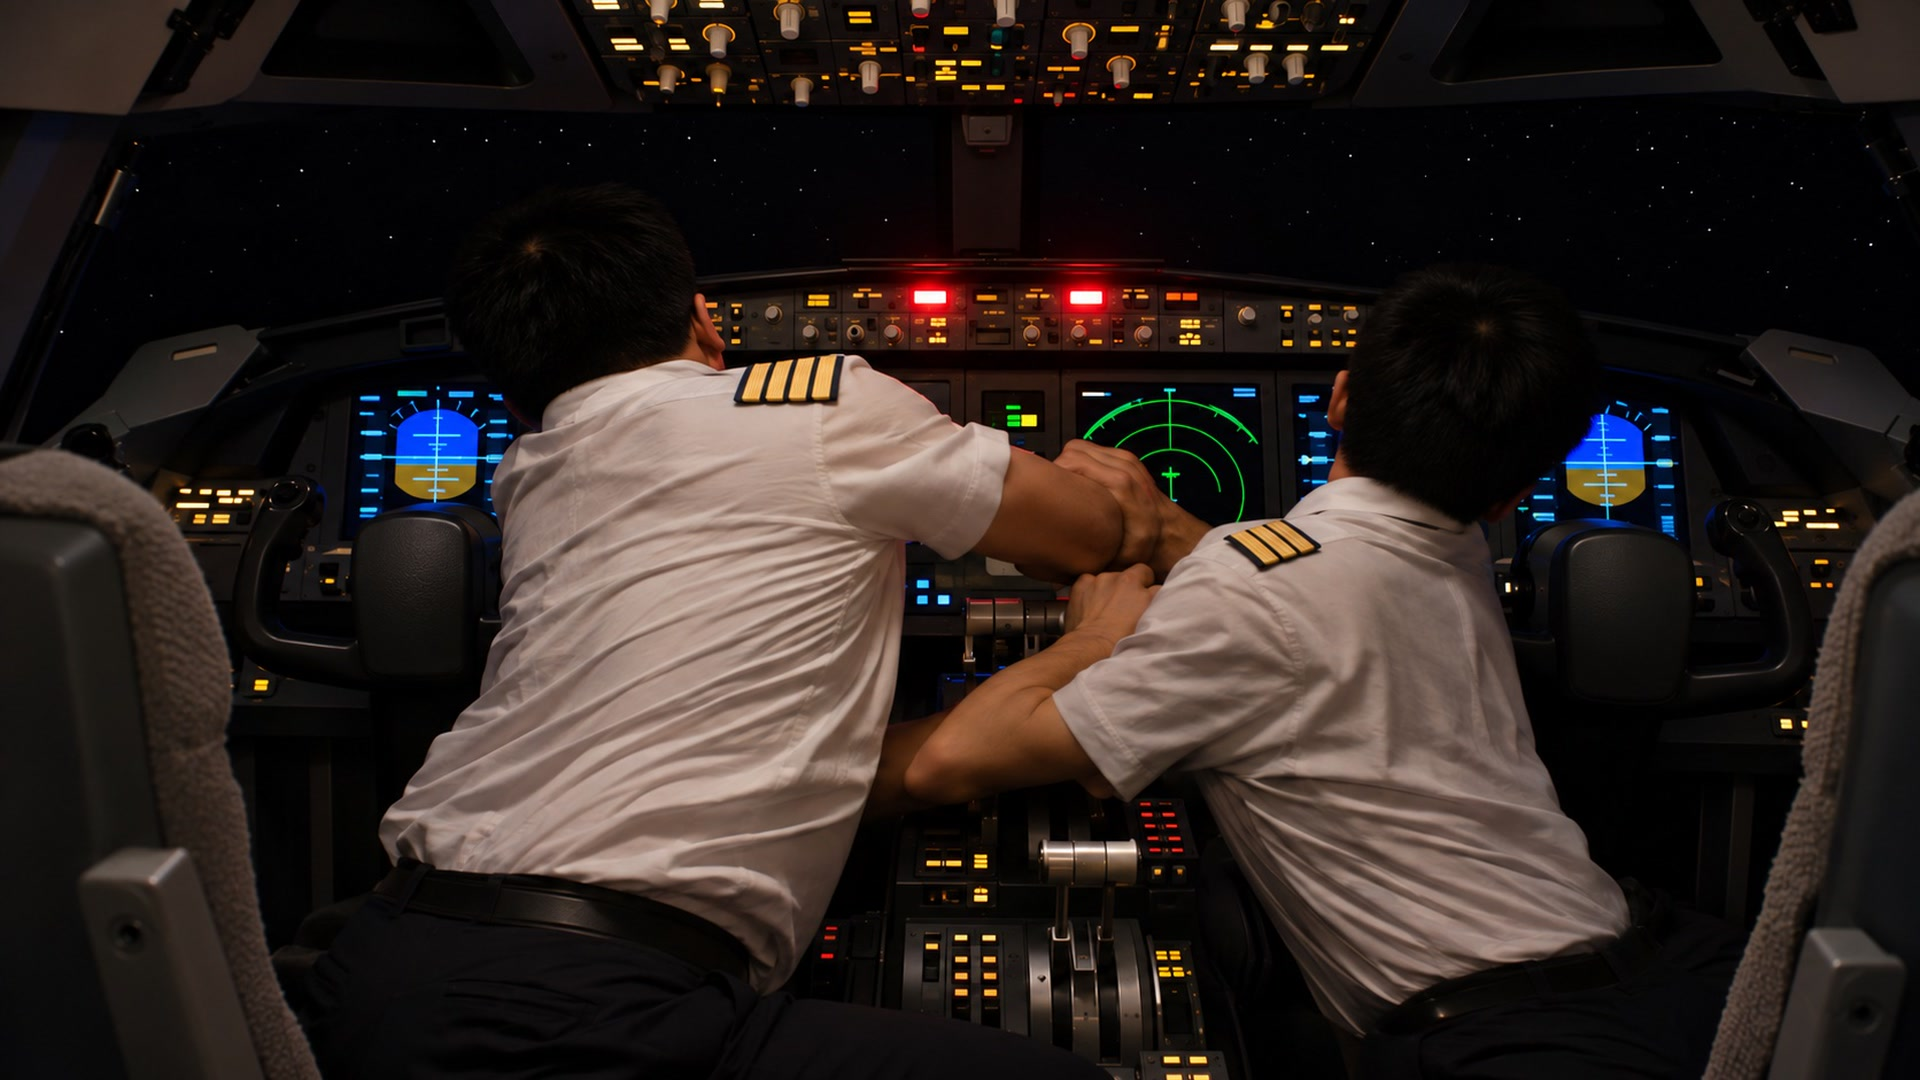
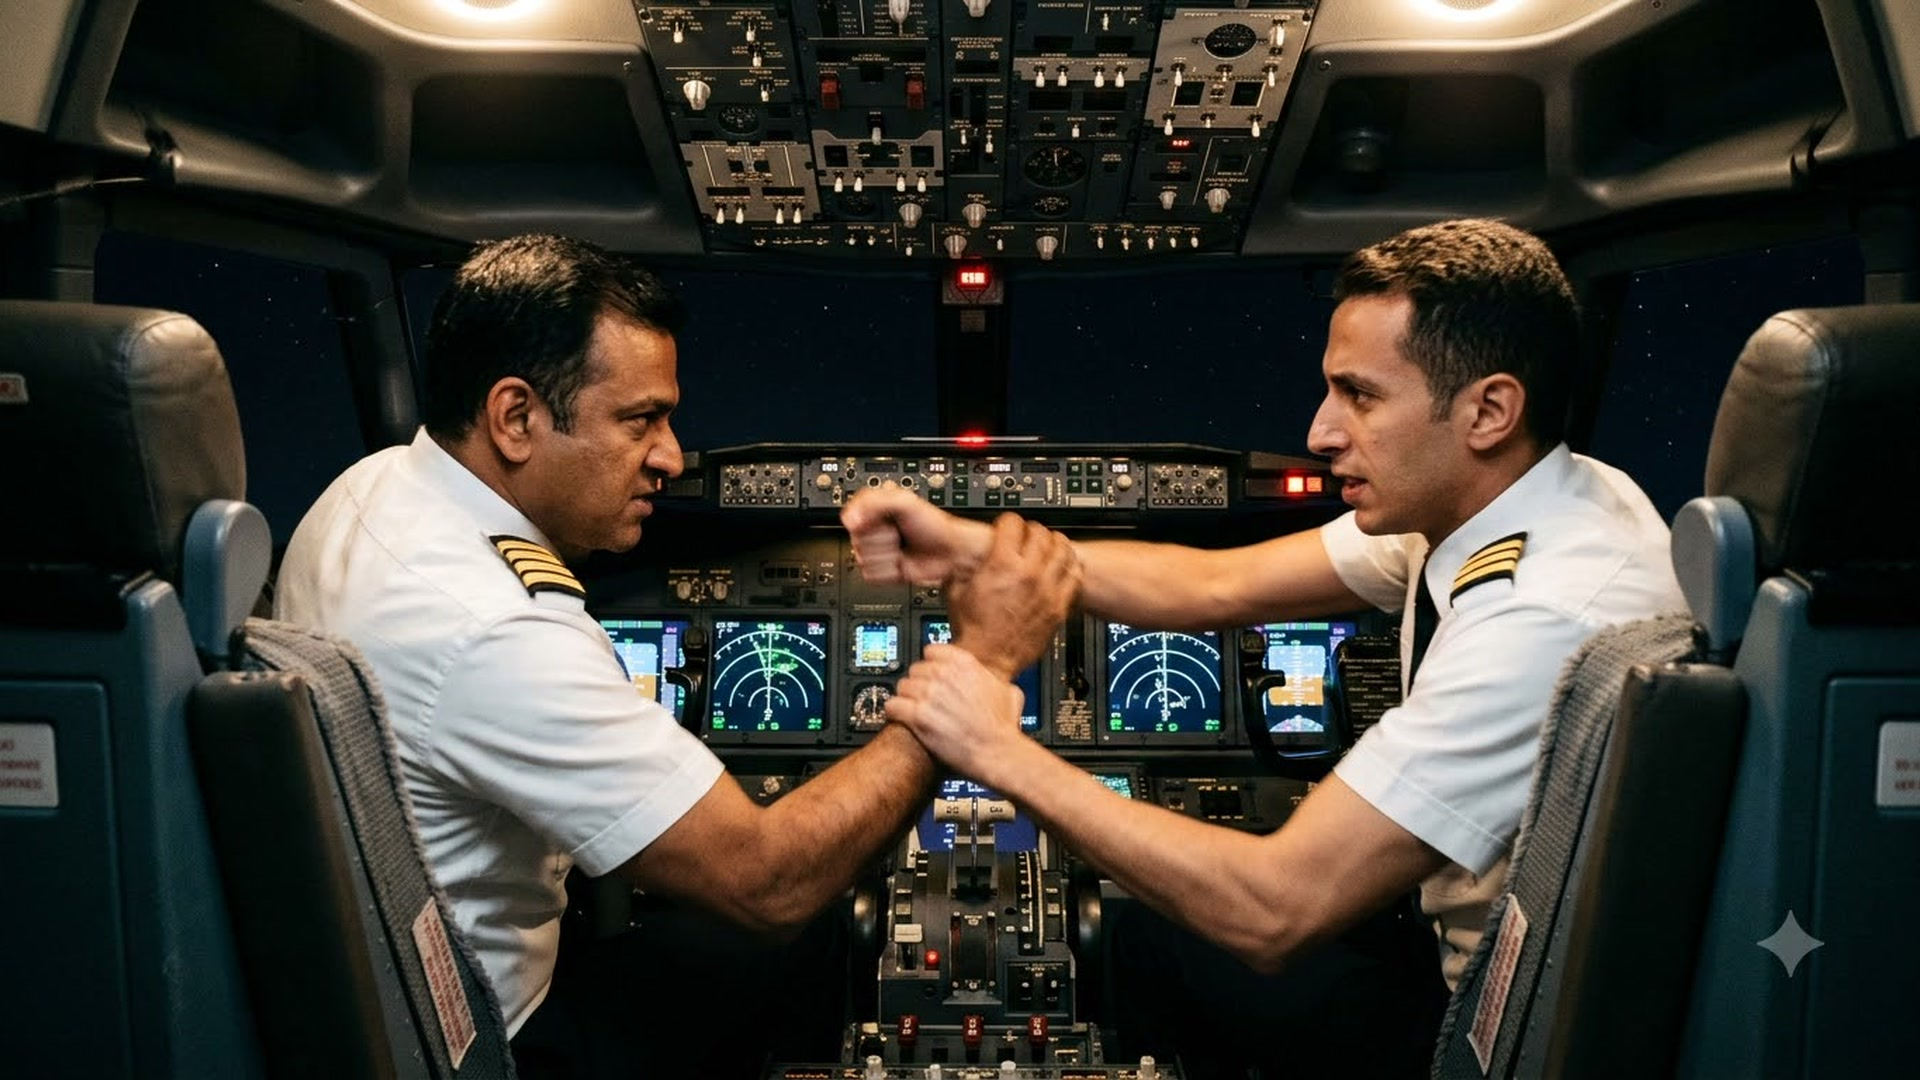
Brighter, accurate 737 MAX cockpits with invented faces
- Regenerated the four cockpit shots in Google Flow: bright, night sky,
  four-display 737 MAX panel with yokes, white short-sleeve uniforms, and
  invented faces; labelled AI RECONSTRUCTION · NOT THE REAL PERSON.
- Rahul's decision: invented AI faces are allowed (CLAUDE.md, skill).
- Lifted the overall grade, vignette and gradients; captions sit above
  source lines; the pilots card no longer covers the source.
- Real photos added from Commons (second 737 MAX cockpit replaces the
  older 737NG, Flydubai at Dubai, Tabuk) and real-footage support
  (commons.py getvid, assets/vid).

diff --git a/samples/fz1073/comp.html b/samples/fz1073/comp.html
@@ -40,7 +40,7 @@ canvas#gl{position:absolute;inset:0}
 .node .txt{font:400 26px/1.35 Inter;color:#d6dae0;text-align:center;margin-top:60px}
 .node .tag{display:inline-block;font:600 16px/1 Inter;letter-spacing:.2em;background:var(--red);color:#fff;padding:7px 10px;margin-top:14px}
 #grain,#vignette,#flash,#leak{position:absolute;inset:0}
-#vignette{background:radial-gradient(ellipse at center,rgba(0,0,0,0) 55%,rgba(0,0,0,.65) 100%)}
+#vignette{background:radial-gradient(ellipse at center,rgba(0,0,0,0) 62%,rgba(0,0,0,.4) 100%)}
 #flash{background:#000;opacity:0}
 #leak{mix-blend-mode:screen;opacity:0}
 .maplabel{position:absolute;font:600 22px/1 Inter;letter-spacing:.22em;color:#fff;transform:translate(-50%,-50%);white-space:nowrap;text-shadow:0 2px 10px #000}
@@ -85,11 +85,12 @@ body.modeL .gtitle{text-align:left;font-size:80px}
 
 #photo{position:absolute;inset:0;background:#000;overflow:hidden;display:none}
 #photo img{position:absolute;inset:0;width:100%;height:100%;object-fit:cover;opacity:0;will-change:transform}
-#photo .grad{position:absolute;inset:0;background:linear-gradient(to top,rgba(0,0,0,.78) 0%,rgba(0,0,0,0) 45%),linear-gradient(to bottom,rgba(0,0,0,.45) 0%,rgba(0,0,0,0) 22%)}
+#photo .grad{position:absolute;inset:0;background:linear-gradient(to top,rgba(0,0,0,.6) 0%,rgba(0,0,0,0) 32%),linear-gradient(to bottom,rgba(0,0,0,.35) 0%,rgba(0,0,0,0) 18%)}
 #alarm{position:absolute;inset:0;background:radial-gradient(ellipse at center,rgba(255,20,20,.05),rgba(200,0,0,.55));mix-blend-mode:multiply;opacity:0}
 #credit{position:absolute;left:72px;bottom:40px;font:500 15px/1.35 Inter;letter-spacing:.06em;color:#b9c0c8;max-width:900px;text-shadow:0 1px 6px #000}
 #credit .ptag{display:inline-block;font:600 16px/1 Inter;letter-spacing:.2em;color:#fff;background:rgba(0,0,0,.55);border-left:4px solid var(--red);padding:8px 10px;margin-bottom:8px}
 body.hasCredit #source{bottom:96px}
+body.hasCredit #phrase{bottom:178px}
 body.modeL #credit{max-width:1040px}
 .split .col img{width:100%;height:190px;object-fit:cover;display:block;margin-bottom:22px;filter:saturate(.9)}
 .gcard .doc{width:230px;margin:0;transform:rotate(2.5deg);box-shadow:0 18px 40px rgba(0,0,0,.6);border:1px solid #444}
@@ -460,10 +461,10 @@ function photoLayer(sc,lt,d,mode){const P=sc.photos||[];const box=$('photo');
   const prevNull=i>0&&!P[i-1].src;box.style.background=prevNull?'transparent':'#000';
   B.style.opacity=!prevNull&&fa<1&&B.dataset.k&&i>0?1:0;if(B.dataset.k)kb(B,B.dataset.kb,(lt-parseFloat(B.dataset.s))/Math.max(parseFloat(B.dataset.e)-parseFloat(B.dataset.s),.1));
   const style=mode==='C'?'blur':(sc.photo_style||'full');
-  const FIL={full:'brightness(.86) contrast(1.05) saturate(.92)',dim:'brightness(.42) saturate(.8)',blur:'blur(14px) brightness(.5) saturate(.85)',
-    threat:'grayscale(1) sepia(1) hue-rotate(-40deg) saturate(3.2) brightness(.55) contrast(1.15)',bw:'grayscale(1) contrast(1.2) brightness(.78)'};
+  const FIL={full:'brightness(1.08) contrast(1.06) saturate(1.02)',dim:'brightness(.6) saturate(.85)',blur:'blur(14px) brightness(.72) saturate(.9)',
+    threat:'grayscale(1) sepia(1) hue-rotate(-40deg) saturate(3) brightness(.75) contrast(1.12)',bw:'grayscale(1) contrast(1.18) brightness(1)'};
   const f=FIL[style];
-  let ff=f;if(sc.dim_at!=null&&style==='full'){const k=ease((lt-sc.dim_at*d)/.7);ff=`brightness(${lerp(.86,.36,k)}) contrast(1.05) saturate(${lerp(.92,.7,k)})`;}
+  let ff=f;if(sc.dim_at!=null&&style==='full'){const k=ease((lt-sc.dim_at*d)/.7);ff=`brightness(${lerp(1.08,.45,k)}) contrast(1.06) saturate(${lerp(1.02,.75,k)})`;}
   A.dataset.st=cur.style||'';A.dataset.flip=cur.flip?'1':'';
   const per=el=>style==='blur'?FIL.blur+(el.dataset.st==='threat'?' sepia(1) hue-rotate(-40deg) saturate(2.5)':el.dataset.st==='bw'?' grayscale(1)':''):(el.dataset.st&&FIL[el.dataset.st])||ff;
   A.style.filter=per(A);B.style.filter=per(B);$('pgrad').style.opacity=style==='full'?1:.4;
@@ -471,7 +472,8 @@ function photoLayer(sc,lt,d,mode){const P=sc.photos||[];const box=$('photo');
   const tg=cur.tag&&style!=='blur'?cur.tag:null;$('tags').innerHTML=tg?`<div class="ntag" style="left:${tg.x*W}px;top:${tg.y*H}px;opacity:${win(lt,start+.5,end-.1,.35,.25)}"><b>${tg.text}</b><i></i></div>`:'';
   const al=sc.alarm!=null&&u>=sc.alarm?((Math.floor(lt*3)%2)?.55:1):0;$('alarm').style.opacity=al;
   const c=CREDITS[cur.src];
-  if(((c&&c.ai)||cur.src.startsWith('ai/'))&&style!=='blur'){$('credit').innerHTML=`<div class="ptag">${cur.label||'AI RECONSTRUCTION'}</div><br>AI-GENERATED ILLUSTRATION · NOT ACTUAL FOOTAGE OF THE INCIDENT`;document.body.classList.add('hasCredit');}
+  if(c&&c.video&&style!=='blur'){$('credit').innerHTML=`<div class="ptag">${cur.label||'REAL FOOTAGE · REPRESENTATIVE'}</div><br>VIDEO: ${c.artist.replace(/\s+/g,' ').slice(0,50)} · WIKIMEDIA COMMONS · ${c.license}`;document.body.classList.add('hasCredit');}
+  else if(((c&&c.ai)||cur.src.startsWith('ai/'))&&style!=='blur'){$('credit').innerHTML=`<div class="ptag">${cur.label||'AI RECONSTRUCTION'}</div><br>AI-GENERATED ILLUSTRATION · NOT ACTUAL FOOTAGE OF THE INCIDENT`;document.body.classList.add('hasCredit');}
   else if(c&&style!=='blur'){const by=c.artist.replace(/\s+/g,' ').slice(0,60);$('credit').innerHTML=`${cur.label?`<div class="ptag">${cur.label}</div><br>`:''}PHOTO: ${by} · WIKIMEDIA COMMONS · ${c.license}`;document.body.classList.add('hasCredit');}
   else{const lb=cur.label&&style!=='blur';$('credit').innerHTML=lb?`<div class="ptag">${cur.label}</div>`:'';document.body.classList.toggle('hasCredit',!!lb);}
   return true;}
@@ -630,7 +632,7 @@ const LOOKS={
   plane_cruise:lookPlaneCruise, plane_dive:lookPlaneDive,
   map:(lt,d,f)=>lookMap(lt,d,f,'route'),
   map_tabuk:(lt,d,f)=>{lookMap(lt,d,f,'tabuk');$('ov_heroes').classList.remove('hide');$('h1').style.opacity=0;$('h2').style.opacity=0;
-     const h=$('h3');h.style.left='66%';h.style.top='76%';h.style.width='900px';h.dataset.base='translate(-50%,-50%) scale(.82)';
+     const h=$('h3');h.style.left='66%';h.style.top='64%';h.style.width='900px';h.dataset.base='translate(-50%,-50%) scale(.82)';
      h.style.opacity=win(lt,d*.08,d*.62);h.style.transform=`translate(-50%,-50%) scale(.82) translateY(${(1-ease((lt-d*.08)/.4))*30}px)`;},
   heroes:lookHeroes, probe:lookProbe, question:lookQuestion, end:lookEnd,
 };
@@ -672,7 +674,7 @@ window.renderFrame=function(f){
   let i=TL.scenes.findIndex(s=>t>=s.start&&t<s.start+s.dur);if(i<0)i=TL.scenes.length-1;
   const sc=TL.scenes[i],lt=t-sc.start,d=sc.dur;
   const mode=sc.layout||'F';document.body.classList.toggle('modeL',mode==='L');document.body.classList.toggle('modeC',mode==='C');
-  $('gl').style.filter=mode==='C'?'blur(16px) brightness(.55)':'none';
+  $('gl').style.filter=mode==='C'?'blur(16px) brightness(.72)':'none';
   LOOKS[sc.look](lt,d,f,sc);
   if(photoLayer(sc,lt,d,mode)&&sc.look.startsWith('map'))$('ov_map').classList.add('hide');
   // chapter tag

diff --git a/samples/fz1073/commons.py b/samples/fz1073/commons.py
@@ -1,6 +1,7 @@
 """Search Wikimedia Commons and download licensed photos with attribution.
 usage: python commons.py search "<query>" [limit]
-       python commons.py get "<File:Title.jpg>" <key>     -> assets/photos/<key>.jpg + credits.json"""
+       python commons.py get "<File:Title.jpg>" <key>     -> assets/photos/<key>.jpg + credits.json
+       python commons.py getvid "<File:Title.webm>" <key> <start s> <seconds>  -> assets/vid/<key>.mp4 (1080p) + credits.json"""
 import json, os, re, sys, urllib.parse, urllib.request, urllib.error, html
 API = "https://commons.wikimedia.org/w/api.php"
 UA = {"User-Agent": "RahulAIVideoStudio/0.1 (local documentary editor; contact via project repo)"}
@@ -21,8 +22,8 @@ def api(**p):
 
 def clean(s): return html.unescape(re.sub(r"<[^>]+>", "", s or "")).strip()
 
-def info(titles):
-    d = api(action="query", titles="|".join(titles), prop="imageinfo", iiprop="url|size|extmetadata|mime", iiurlwidth=1920)
+def info(titles, thumb=True):
+    d = api(action="query", titles="|".join(titles), prop="imageinfo", iiprop="url|size|extmetadata|mime", **({"iiurlwidth": 1920} if thumb else {}))
     out = []
     for pg in d["query"]["pages"]:
         if "imageinfo" not in pg: continue
@@ -58,5 +59,23 @@ elif sys.argv[1] == "get":
     cp = os.path.join(HERE, "assets", "photos", "credits.json")
     cr = json.load(open(cp)) if os.path.exists(cp) else {}
     cr[key] = {k: r[k] for k in ("title", "page", "license", "artist", "date")}
+    json.dump(cr, open(cp, "w"), indent=1, ensure_ascii=False)
+    print("saved", dst, r["license"], "·", r["artist"])
+elif sys.argv[1] == "getvid":
+    import subprocess
+    r = info([sys.argv[2]], thumb=False)[0]; key, ss, dur = sys.argv[3], sys.argv[4], sys.argv[5]
+    if not OK.match(r["license"]): sys.exit(f"license not allowed: {r['license']}")
+    os.makedirs(os.path.join(HERE, "assets", "vid"), exist_ok=True)
+    dst = os.path.join(HERE, "assets", "vid", key + ".mp4")
+    tmp = dst + ".src.webm"; import time
+    subprocess.run(["curl", "-sS", "-f", "-L", "-A", UA["User-Agent"], "--retry", "5", "--retry-delay", "30", "--retry-all-errors", "-o", tmp, r["orig"].split("?")[0]], check=True)
+    time.sleep(10)
+    subprocess.run(["ffmpeg", "-nostdin", "-y", "-loglevel", "error", "-ss", ss, "-t", dur, "-i", tmp, "-an",
+                    "-vf", "scale=1920:1080:force_original_aspect_ratio=increase,crop=1920:1080,fps=30", "-c:v", "libx264", "-crf", "18", "-pix_fmt", "yuv420p", dst], check=True)
+    os.remove(tmp)
+    if os.path.getsize(dst) < 100000: sys.exit(f"clip came out empty: {dst}")
+    cp = os.path.join(HERE, "assets", "photos", "credits.json")
+    cr = json.load(open(cp)) if os.path.exists(cp) else {}
+    cr["vid/" + key] = {**{k: r[k] for k in ("title", "page", "license", "artist", "date")}, "video": True}
     json.dump(cr, open(cp, "w"), indent=1, ensure_ascii=False)
     print("saved", dst, r["license"], "·", r["artist"])

diff --git a/samples/fz1073/ai_assets.py b/samples/fz1073/ai_assets.py
@@ -3,8 +3,8 @@ import os, subprocess, glob
 HERE = os.path.dirname(os.path.abspath(__file__))
 FPS = 30
 
-def _frames(key):
-    mp4 = os.path.join(HERE, "assets", "ai", key + ".mp4"); d = os.path.join(HERE, "assets", "ai", key)
+def _frames(key, folder="ai"):
+    mp4 = os.path.join(HERE, "assets", folder, key + ".mp4"); d = os.path.join(HERE, "assets", folder, key)
     if not os.path.exists(mp4): return 0
     if not os.path.isdir(d) or os.path.getmtime(d) < os.path.getmtime(mp4):
         os.makedirs(d, exist_ok=True)
@@ -35,6 +35,10 @@ def resolve(photos):
     out = []
     for p in photos or []:
         src = p.get("src")
+        if src and src.startswith("vid/"):  # real licensed footage (commons.py getvid)
+            n = _frames(src[4:], "vid")
+            if n: out.append({**p, "video": n})
+            continue
         if src and src.startswith("ai/"):
             key = src[3:]; n = _frames(key)
             if n: out.append({**p, "video": n}); continue

diff --git a/skills/think-with-rahul-nishad-production/SKILL.md b/skills/think-with-rahul-nishad-production/SKILL.md
@@ -123,7 +123,7 @@ Use this when he wants a finished video, not just a package. Repo: `RahulNishad/
 **Visual sources, in order of preference.**
 1. Real licensed photos from Wikimedia Commons (CC BY, CC BY-SA, PD) — the actual aircraft, places, equipment, documents. Credit on screen and in `CREDITS.md`; tag "THE AIRCRAFT INVOLVED", "REPRESENTATIVE IMAGE" or "FILE PHOTO".
 2. Claude-rendered code visuals (Three.js + HTML): route maps, altitude/stat counters, timelines, split "X vs Y", hero cards, quote cards, question and end cards.
-3. AI reconstructions for moments nobody filmed (ChatGPT images; Flow/Sora if available). Write one setup message defining consistent characters (from behind), then one prompt per image with an exact filename. Two or three stills per moment, cut with Ken Burns and crossfades. Rules: no faces of real people, no blood, no weapons, no logos or livery, no readable text; never use a CC BY-SA photo as a reference. Label every one "AI RECONSTRUCTION" or "AI ILLUSTRATION" and tell him to tick YouTube's altered/synthetic content box.
+3. AI reconstructions for moments nobody filmed (ChatGPT images; Flow/Sora if available). Write one setup message defining consistent characters (from behind), then one prompt per image with an exact filename. Two or three stills per moment, cut with Ken Burns and crossfades. Rules: invented faces only (never lookalikes of the real people, labelled NOT THE REAL PERSON), no blood, no weapons, no logos or livery, no readable text; never use a CC BY-SA photo as a reference. Label every one "AI RECONSTRUCTION" or "AI ILLUSTRATION" and tell him to tick YouTube's altered/synthetic content box.
 Review every AI image before use (faces, hands, logos, text) and fall back to a real photo or code visual when one is missing.
 
 **Sound.** Original drone bed about −30 LUFS ducked about 60% under voice, quieter hook, low pulse from title to climax, whooshes on scene changes, booms on 3–4 reveals, riser into the final question with about 1 s of music silence before it. Voice compressed and normalised; final mix −14 LUFS, true peak under −1.5 dBFS.
@@ -147,12 +147,13 @@ He pointed to a 27-minute Hindi investigation of FZ1073 by another creator as th
 - **Mock screens built in code.** Crew roster, background-check portal, social-post pop-up, transponder panel showing 7700 then 7500, radar or ADS-B readout. Use generic interfaces with no real logos, labelled ILLUSTRATION.
 - **Maps.** Dark textured base, the country lit in red, an animated route line, and a pin on every place he names.
 - **Name tags and speech bubbles.** A bold label on a figure ("PLUMBER · ROW 11") and a speech bubble for an attributed quote from a passenger interview.
+- **Brightness.** He found the first direction video too dark. Keep images bright and well exposed, especially inside the cockpit; ask image tools for lit cabins and cockpits with clear faces.
 - **Colour language.** A neutral grade for facts, a red duotone for the attacker's backstory and the threat, and black-and-white with one red accent for the violent moment.
 - **Presenter look.** One fixed, warm, low-key set with a practical lamp and a textured wall. Alternate medium and close shots, and he talks to the lens.
 - **Sponsor.** A mid-roll slot only if he has a sponsor, clearly separated from the story.
 
 What this channel does differently from that reference, and keeps doing:
-- No faces of the real people in AI images. Show them from behind, in silhouette or as hands. Name tags go on those figures.
+- AI images may show invented faces (his decision, Nov 2026), never made to resemble the real people and never built from their photos. Label any image showing a named person's face "AI RECONSTRUCTION · NOT THE REAL PERSON".
 - No blood, wounds or weapons. Tension comes from light, framing, clocks and sound.
 - The accused is named only by age and nationality, from the official statement.
 - Every AI image is labelled "AI RECONSTRUCTION" or "AI ILLUSTRATION".

diff --git a/samples/fz1073/FLOW_REGEN_PROMPTS.md b/samples/fz1073/FLOW_REGEN_PROMPTS.md
@@ -1,0 +1,37 @@
+# Flow regeneration pack: correct 737 MAX cockpit, brighter, with faces
+
+Rahul's notes on the first direction video (7 Nov 2026): the images looked dark and far from the real incident, the cockpit was wrong, and AI-generated faces are fine to use.
+
+These prompts replace the four cockpit shots that showed the wrong aircraft, and re-light the darkest scenes. Generate in Flow at 16:9, attach `assets/photos/cockpit_max.jpg` as the reference for every cockpit shot, and save each pick as `assets/ai/<file>.png`. The pipeline swaps it in on the next render.
+
+## Rules for faces
+
+- Faces are allowed. They must be **invented faces**: never try to look like the real captain, first officer, plumber, dentist or pilots, and never use their photos as references.
+- Every image that shows the face of a named person is labelled **"AI RECONSTRUCTION · NOT THE REAL PERSON"** in the video.
+- Still no blood, no wounds, no weapon close-ups, no airline logos or livery, no readable text.
+
+## Add this to the end of every prompt
+
+> Photorealistic documentary photograph, 35mm lens, natural colour, well exposed with clear detail in faces and the cockpit, soft practical light from the displays and overhead panel, no crushed blacks. Invented faces, not resembling any real person. No text, no logos, no blood.
+
+## What a 737 MAX flight deck looks like
+
+> Boeing 737 MAX 8 flight deck: four large landscape-format displays in one row across the main panel, a control column with a horn-shaped yoke in front of each pilot (no side-sticks), a central throttle pedestal with two thrust levers, a dense overhead panel with toggle switches, and a glareshield with the autopilot panel.
+
+## The four cockpit shots
+
+| File | Scene | Prompt |
+| --- | --- | --- |
+| `r_struggle_1` | Teaser, 02 hook, 07 attack | Inside a Boeing 737 MAX 8 flight deck at night, seen from between and slightly behind the two seats. The captain on the left, four gold stripes, and the first officer on the right, three gold stripes, grapple across the throttle pedestal, both turned three-quarters so their tense faces are partly visible. Red master caution light on the glareshield, the four displays bright. |
+| `r_struggle_2` | 07 attack | Close shot over the captain's shoulder in a 737 MAX 8 cockpit: his hand grips the yoke hard while another arm pushes his shoulder; his face in profile, jaw clenched, lit red by the master caution light; the primary flight display beside him shows a nose-down attitude. |
+| `r_takeover` | 14 landing | Inside a 737 MAX 8 cockpit in flight at night, dark sky and stars through the windshield: two off-duty pilots in plain white shirts without stripes take the seats, one gripping the yoke, the other reaching to the overhead panel, both focused, faces lit by the displays. |
+| `r_approach` | Teaser, 14 landing | From behind and between the two seats of a 737 MAX 8 cockpit on final approach at night: runway approach lights in a flat dark desert ahead, both pilots' hands on the yoke and thrust levers, the four displays bright, faces seen in three-quarter profile. |
+
+## Brighter versions of the darkest shots (optional)
+
+| File | Prompt change |
+| --- | --- |
+| `r_door_open` | Same scene, but the cabin light is warm and bright and fills the flight deck; the passenger stepping in is lit from the front, face visible, determined. |
+| `r_aisle` | Same scene with cabin lights on: passengers half-standing, worried faces turned toward the front; the plumber running toward the open cockpit door, seen from behind. |
+| `r_galley_hold` | Same overhead scene under bright galley light; the faces of the passengers holding him are visible, the pinned man's face turned to the floor. |
+| `r_aid` | Same scene, warm bright galley light; the dentist's face visible, calm and focused; the captain's face pale and tired, eyes half open. |

diff --git a/CLAUDE.md b/CLAUDE.md
@@ -8,7 +8,7 @@ A local, script-driven documentary video pipeline for the YouTube channel **Thin
 ## Rules that always apply
 - **Script is the single source of truth:** `samples/fz1073/script.long.json`. `RECORDING_SCRIPT.md` and `STORYBOARD.jpg` are generated from it (`script_to_md.py`, `storyboard.py`). Never hand-edit the generated files.
 - **Facts:** attribute every claim ("UAE ke mutabik…"), label claims as CLAIM, show SOURCE lines, never invent numbers. Headcount is "170+" because reports vary 172–182.
-- **People:** never show the faces of the real people (captain, first officer, plumber, dentist, pilots). No blood, no weapons, no airline logos in AI images. Do not name the accused.
+- **People:** AI images may show invented faces (Rahul's decision, 7 Nov 2026). Never try to make them look like the real captain, first officer, plumber, dentist or pilots, and never use their photos as references. Any AI image showing a named person's face is labelled "AI RECONSTRUCTION · NOT THE REAL PERSON". No blood, no weapons, no airline logos in AI images. Do not name the accused.
 - **Images:** real photos only from Wikimedia Commons with CC BY / CC BY-SA / PD licences, credited on screen and in `CREDITS.md`. AI images are labelled "AI RECONSTRUCTION" or "AI ILLUSTRATION". Never use a CC BY-SA photo as an AI reference image.
 - **Original footage is read-only.** Takes are only read; all outputs are new files.
 - **Commit and push** to branch `claude/awesome-goldberg-6n0u1a` after each meaningful change.
